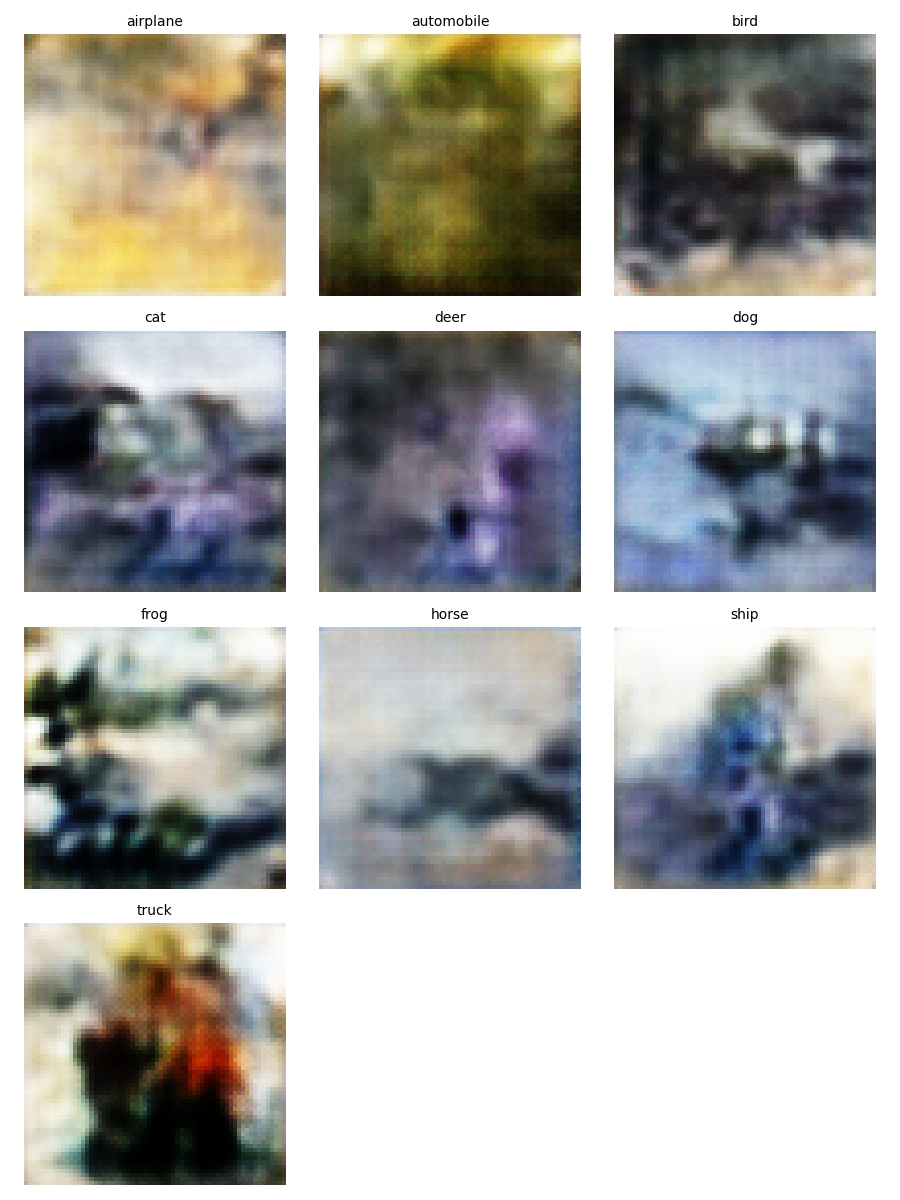
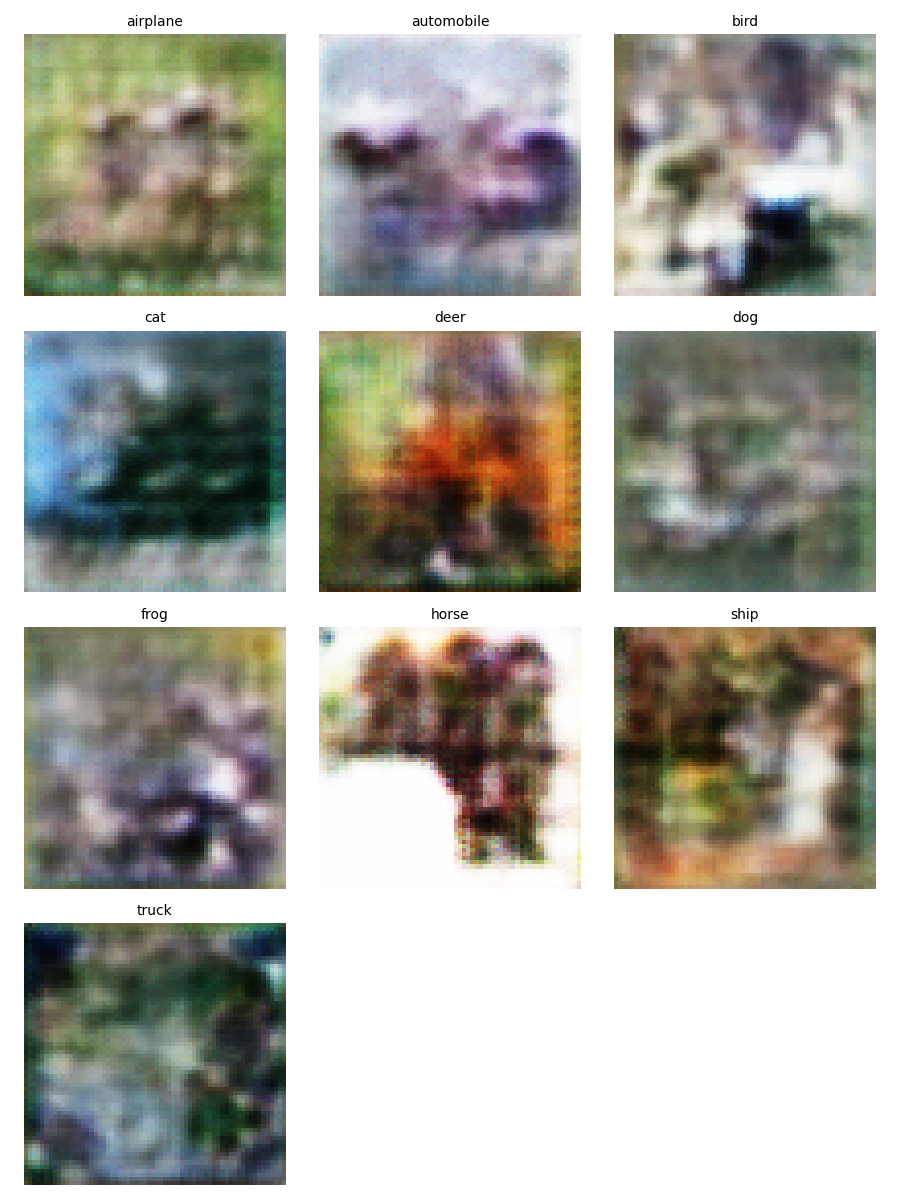
retrained works a little better examples generated

diff --git a/GAN.py b/GAN.py
@@ -5,6 +5,7 @@ import torch.nn as nn
 import torchvision.transforms as transforms
 from torchvision.utils import make_grid
 from torch.utils.data import Dataset, DataLoader
+from transformers import CLIPProcessor, CLIPModel
 from PIL import Image
 from sentence_transformers import SentenceTransformer
 import json
@@ -69,16 +70,16 @@ class Generator(nn.Module):
             nn.ReLU()
         )
         self.fc = nn.Sequential(
-            nn.Linear(512, 2048 * 4 * 4),
-            nn.BatchNorm1d(2048 * 4 * 4),
+            nn.Linear(512, 1024 * 4 * 4),
+            nn.BatchNorm1d(1024 * 4 * 4),
             nn.ReLU()
         )
 
         self.deconv = nn.Sequential(
 
-            nn.ConvTranspose2d(2048, 1024, 4, 2, 1),
-            nn.BatchNorm2d(1024),
-            nn.ReLU(True),
+            # nn.ConvTranspose2d(2048, 1024, 4, 2, 1),
+            # nn.BatchNorm2d(1024),
+            # nn.ReLU(True),
 
             nn.ConvTranspose2d(1024, 512, 4, 2, 1),
             nn.BatchNorm2d(512),
@@ -109,7 +110,7 @@ class Generator(nn.Module):
         text_feat = self.text_proj(text_emb)
         noise_feat = self.noise_proj(noise)
         x = torch.cat((text_feat, noise_feat), dim=1)
-        x = self.fc(x).view(-1, 2048, 4, 4)
+        x = self.fc(x).view(-1, 1024, 4, 4)
         return self.deconv(x)
 
 class Discriminator(nn.Module):
@@ -175,12 +176,10 @@ def train(generator, discriminator, dataloader, epochs=10):
             noise = torch.randn(batch_size, 100, device=device)
             real_imgs_noisy = real_imgs + torch.randn_like(real_imgs) * 0.2
             
-
             with torch.no_grad():
                 fake_imgs_detached = generator(noise, txt_emb).detach()
             fake_imgs_noisy = fake_imgs_detached + torch.randn_like(fake_imgs_detached) * 0.2
 
- 
             real_validity = discriminator(real_imgs_noisy, txt_emb)
             fake_validity = discriminator(fake_imgs_noisy, txt_emb)
             d_loss_real = criterion(real_validity, real_labels)
@@ -205,8 +204,25 @@ def train(generator, discriminator, dataloader, epochs=10):
 
             if i % 100 == 0:
                 print(f"Epoch {epoch} | Step {i} | D Loss: {d_loss.item():.4f} | G Loss: {g_loss.item():.4f}")
-        sample_images(G, ["a man riding a horse", "a dog in a park", "a red car", "a policeman under a tree", "a woman with a bowl of fruit", "a blue boat" ], text_encoder)
-def sample_images(generator, text_prompts, text_encoder, save_path="samples/sample.png"):
+
+        if epoch % 10 == 0:
+            sample_images(
+                generator,
+                [
+                    "a man riding a horse",
+                    "a dog in a park",
+                    "a red car",
+                    "a policeman under a tree",
+                    "a woman with a bowl of fruit",
+                    "a blue boat",
+                    "a cow eating grass",
+                    "a man being killed",
+                    "death"
+                ],
+                text_encoder,
+                save_path=f"samples/sample_epoch_{epoch:03d}.png"
+            )
+def sample_images(generator, text_prompts, text_encoder, save_path):
     os.makedirs(os.path.dirname(save_path), exist_ok=True)
     generator.eval()
     device = next(generator.parameters()).device
@@ -260,7 +276,7 @@ dataset = ArtCaptionDataset(image_dir, caption_path, transform, text_encoder, ma
 
 
 
-dataloader = DataLoader(dataset, batch_size=20, shuffle=True)
+dataloader = DataLoader(dataset, batch_size=32, shuffle=True)
 
 G = Generator(text_dim=512, noise_dim=100)
 D = Discriminator(text_dim=512)
@@ -308,4 +324,4 @@ def show_images(imgs, title):
 show_images(imgs_diff, "Different Text, Same Noise")
 show_images(imgs_same, "Same Text, Same Noise")
 
-sample_images(G, ["a man riding a horse", "a dog in a park", "a red car", "a policeman under a tree", "a woman with a bowl of fruit", "a blue boat" ], text_encoder, save_path="samples/final.png")
+sample_images(G, ["a man riding a horse", "a dog in a park", "a red car", "a policeman under a tree", "a woman with a bowl of fruit", "a blue boat", "a cow eating grass", "a man being killed", "death" ], text_encoder, save_path="samples/final.png")
